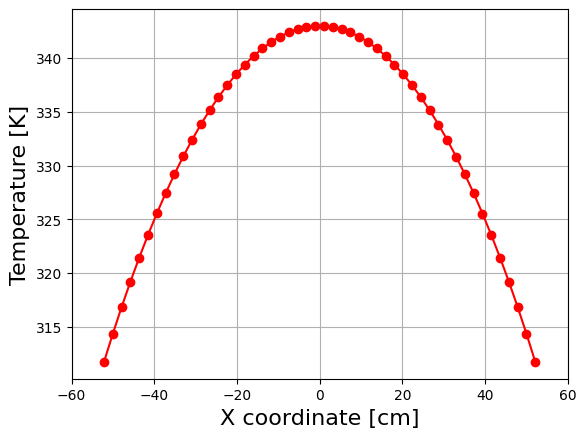
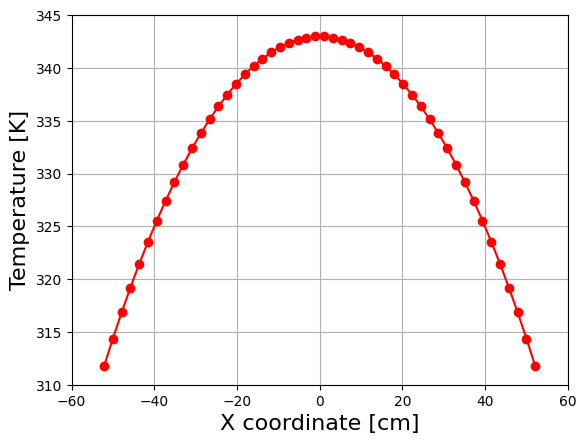
corrections for paper

diff --git a/simulations/more_active_batches/restarts/reviz/visualize_results_flux_only.py b/simulations/more_active_batches/restarts/reviz/visualize_results_flux_only.py
@@ -119,11 +119,12 @@ for n in n_elems:
 
 
 # plot numerical flux for 50 mesh elements
-plt.plot(xx[50],flux_means[50],'-o')
-plt.errorbar(xx[50],flux_means[50],yerr=flux_std_devs[50],marker = '|',fmt='none',elinewidth=1,capsize=4,capthick=2)
+plt.plot(xx[50],flux_means[50]/(1E14),'-o')
+plt.errorbar(xx[50],flux_means[50]/(1E14),yerr=flux_std_devs[50]/(1E14),marker = '|',fmt='none',elinewidth=1,capsize=4,capthick=2)
 plt.xlabel("X Coordinate [cm]",fontsize=16)
 plt.xticks([-60,-40,-20,0,20,40,60])
-plt.ylabel(r"Flux [n/$cm^{2}$-s]",fontsize=16)
+plt.yticks(np.linspace(2.25,2.5,6))
+plt.ylabel(r"Flux($10^{-14})$ [n/$cm^{2}$-s]",fontsize=16)
 plt.grid()
 plt.rcParams['figure.figsize'] = [4, 4]
 plt.savefig("flux_50.png", bbox_inches="tight")
@@ -148,7 +149,7 @@ plt.clf()
 
 # COARSE
 # plot all flux C/E
-for n in [5,10,25,50]:
+for n in [5,10,25]:
     plt.plot(xx[n],ratios_flux_num_to_analy[n],label=f"{n} x-elem")
     # plt.errorbar(xx[n],ratios_flux_num_to_analy[n],yerr=two_sigma_r[n],marker = '|',fmt='none',elinewidth=0.25,capsize=3,capthick=1)
 plt.plot(xx[n],ones[n],'k',label="exact")
@@ -210,8 +211,8 @@ print("slope = ", results_flux.slope, " r-squared = ",results_flux.rvalue*result
 
 # plot mesh elements vs flux error norms
 plt.plot(log_N,log_flux_error_norms,'-o',label=r'$\epsilon_{\phi}=\frac{||\phi_{a} - \phi_{x} ||_{2}}{|| \phi_{a} ||_{2}}$')
-plt.xlabel(r"Log of number of X elements $\log(N)$",fontsize=16)
-plt.ylabel(r"Log of Error Norm $log(\epsilon_{\phi})$",fontsize=16)
+plt.xlabel(r"Log of Number of X Cells",fontsize=16)
+plt.ylabel(r"$log(\epsilon_{\phi})$",fontsize=16)
 # plt.title("Flux Error Norm vs Mesh Size \n 200 Picard Iterations with Relaxation")
 plt.xticks(log_N)
 plt.yticks([-2.3,-2.4, -2.5, -2.6, -2.7, -2.8, -2.9, -3.0, -3.1, -3.2, -3.3, -3.4, -3.5, -3.6, -3.7, -3.8, -3.9])

diff --git a/simulations/visualization/more_active_batches/viz.py b/simulations/visualization/more_active_batches/viz.py
@@ -37,6 +37,7 @@ ones = np.ones(len(xx[1000]))
 # plot 50 mesh element temperature
 plt.plot(xx[50],temps[50],'-ro')
 plt.xticks([-60,-40,-20,0,20,40,60])
+plt.yticks(np.linspace(310,345,8))
 plt.xlabel("X coordinate [cm]",fontsize=16)
 plt.ylabel("Temperature [K]",fontsize=16)
 # plt.title(f"Temperature for {50} Mesh Elements")
@@ -90,7 +91,7 @@ plt.savefig("temp_num_to_analy_ratios.png",bbox_inches='tight')
 plt.clf()
 
 # COARSE TEMP C/E
-for n in [5,10,25,50]:
+for n in [5,10,25]:
     plt.plot(xx[n],ratios_temp_num_to_analy[n],label=f"{n} x-elem")
 plt.plot(xx[1000],ones,'k',label="exact")
 plt.xticks([-60,-40,-20,0,20,40,60])
@@ -143,8 +144,8 @@ plt.plot(log_N,log_temp_error_norms,'-ro',label=r'$\epsilon_{T}=\frac{||T_{a} - 
 plt.xticks(log_N)
 plt.yticks([-1.75,-2,-2.25,-2.5,-2.75,-3,-3.25,-3.5,-3.75,-4,-4.25])
 # plt.ticklabel_format(axis='y', style='sci', scilimits=(0,0))
-plt.xlabel(r"Log of number of X elements $\log(N)$",fontsize=16)
-plt.ylabel(r"Log of Error Norm $log(\epsilon_{T})$",fontsize=16)
+plt.xlabel(r"Log of Number of X Elements",fontsize=16)
+plt.ylabel(r"$log(\epsilon_{T})$",fontsize=16)
 # plt.title("Temperature Error Norm vs Mesh Size \n 200 Picard Iterations",y=1)
 plt.legend(bbox_to_anchor=[0.985,0.985],fontsize=14)
 plt.grid()
